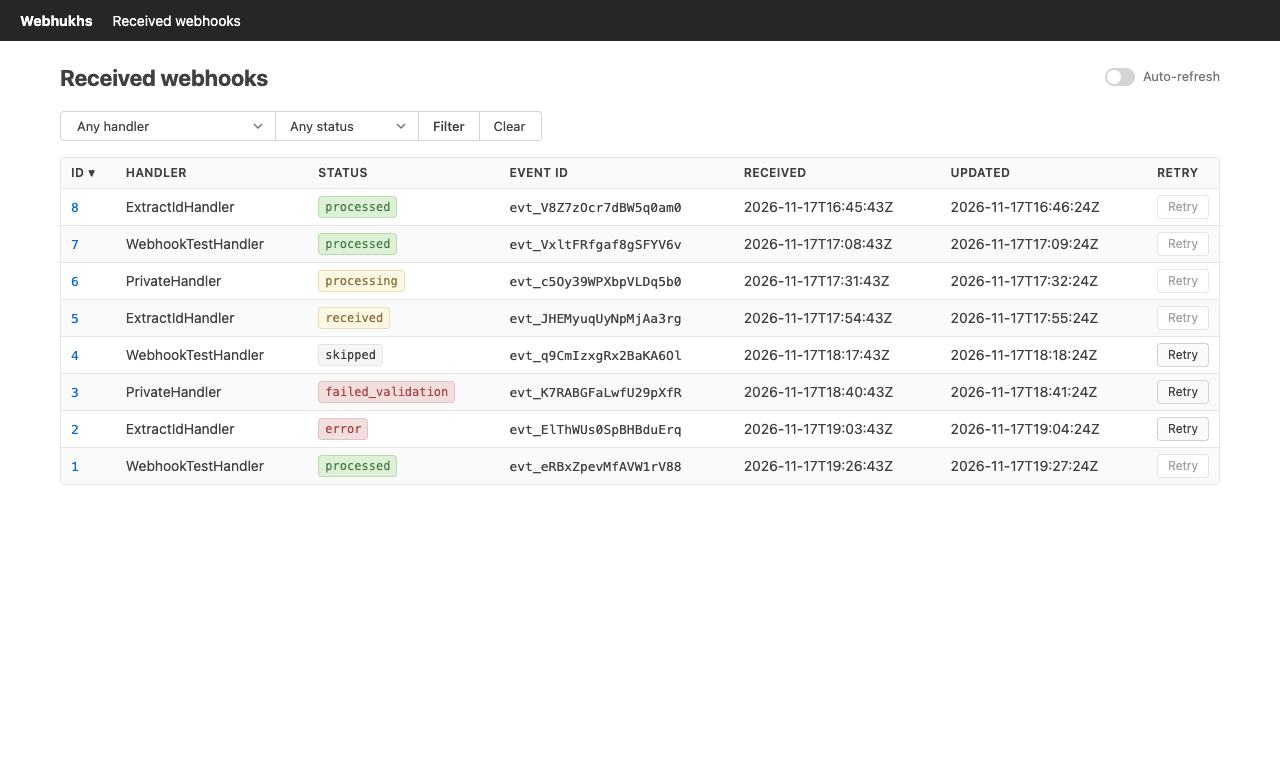
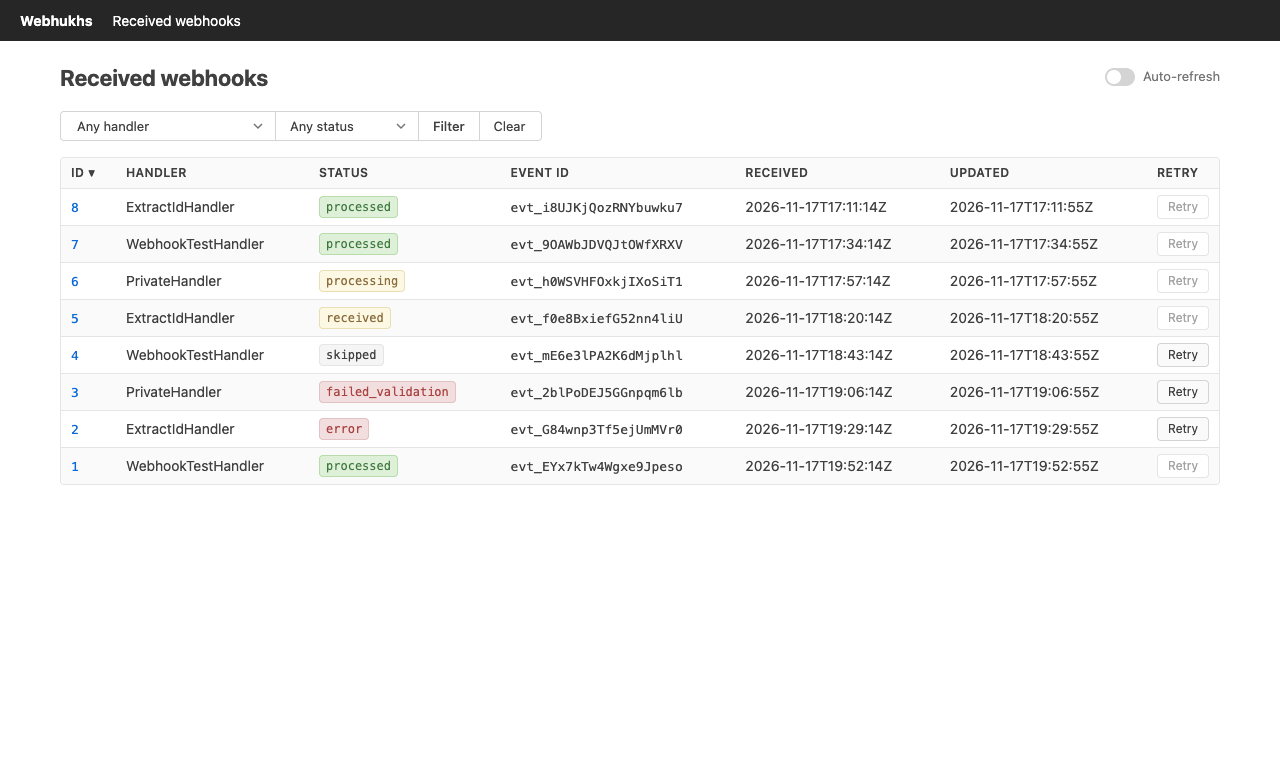
Replace the row in place when retrying from the listing

diff --git a/lib/webhukhs/admin/assets/admin.js b/lib/webhukhs/admin/assets/admin.js
@@ -33,7 +33,53 @@ document.addEventListener("click", (event) => {
   if (copyPanel) {
     const panel = copyPanel.closest(".tabs").querySelector("[role=tabpanel]:not([hidden])");
     navigator.clipboard.writeText(panel.querySelector("code").textContent).then(() => flash(copyPanel));
+    return;
   }
+
+  // A click anywhere on a listing row opens the webhook - except on something that is clickable in
+  // its own right, which is the id link and the retry button. The row used to be covered by the id
+  // link's ::after instead, which meant the button underneath it could not be pressed at all.
+  const row = event.target.closest("tr[data-href]");
+  if (row && !event.target.closest("a, button, input, label, select")) {
+    if (event.metaKey || event.ctrlKey) {
+      window.open(row.dataset.href, "_blank", "noopener");
+    } else {
+      location.assign(row.dataset.href);
+    }
+  }
+});
+
+// Retrying from the listing answers with the row alone, which goes in place of the one that was
+// there - the status and the button come back changed, and the page stays where it is. Without
+// JavaScript the same form submits normally and lands on the webhook, see the controller.
+document.addEventListener("submit", async (event) => {
+  const form = event.target.closest("tr[data-href] form.button_to");
+  if (!form) return;
+
+  event.preventDefault();
+  const row = form.closest("tr");
+  const button = form.querySelector("button");
+  button.disabled = true;
+
+  try {
+    const response = await fetch(form.action, {
+      method: "POST",
+      body: new FormData(form),
+      headers: {Accept: "text/html", "X-Webhukhs-Row": "1"}
+    });
+    // Parsed inside a tbody, not with DOMParser: parsing a bare <tr> as a document throws the row
+    // away, since it is not in a table there
+    const tbody = document.createElement("tbody");
+    tbody.innerHTML = await response.text();
+    const fresh = tbody.firstElementChild;
+    if (response.ok && fresh) {
+      row.replaceWith(fresh);
+      return;
+    }
+  } catch (error) {
+    // Left to the finally below - the button comes back and the row is as it was, so it can be pressed again
+  }
+  button.disabled = false;
 });
 
 // Arrow keys move between tabs, as the ARIA tabs pattern expects

diff --git a/lib/webhukhs/admin/assets/admin.css b/lib/webhukhs/admin/assets/admin.css
@@ -288,24 +288,19 @@ p.muted {
 .admin-table tbody tr:nth-child(even) {
   background: var(--color-bg-subtle);
 }
-/* Rows with a .row-link are clickable as a whole: the link's ::after covers the row */
-.admin-table tbody tr:has(> td > .row-link) {
-  position: relative;
+/* A row with a data-href is clickable as a whole - admin.js navigates, so nothing is laid over
+   the row and the buttons in it stay reachable */
+.admin-table tbody tr[data-href] {
   cursor: pointer;
 }
-.admin-table tbody tr:has(> td > .row-link):hover {
+.admin-table tbody tr[data-href]:hover {
   background: var(--color-bg-hover);
 }
-.admin-table tbody tr:has(> td > .row-link:focus-visible) {
+.admin-table tbody tr[data-href]:has(a:focus-visible) {
   outline: 2px solid var(--color-link);
   outline-offset: -2px;
 }
-.row-link::after {
-  content: "";
-  position: absolute;
-  inset: 0;
-}
-.row-link:focus-visible {
+.admin-table tbody tr[data-href] a:focus-visible {
   outline: none;
 }
 
@@ -461,11 +456,7 @@ h1 .badge {
 .detail-heading {
   margin-bottom: 16px;
 }
-/* The row link covers the whole row with its ::after, so the cell holding a button has to come
-   out above it - without this the row swallows the click and opens the webhook instead */
 .admin-table td:has(> form.button_to) {
-  position: relative;
-  z-index: 1;
   width: 1%;
 }
 

diff --git a/test/admin_test.rb b/test/admin_test.rb
@@ -31,8 +31,9 @@ class AdminTest < ActionDispatch::IntegrationTest
 
     assert_response :ok
     assert_equal ["last", "first"], listed_event_ids
-    # The whole row is the link, so it has to be there in the first cell
-    assert_select "tbody tr td:first-child a.row-link[href^='/admin/']", count: 2
+    # The id cell is a link of its own; the rest of the row follows data-href, see admin.js
+    assert_select "tbody tr td:first-child a[href^='/admin/']", count: 2
+    assert_select "tbody tr[data-href^='/admin/']", count: 2
     assert_select "th a.sort-link[href=?]", "/admin/?direction=asc", text: "Id ▼"
     assert_select "th a", count: 1
     assert_select "th a.sort-link span.sort-arrow", text: "▼", count: 1
@@ -88,7 +89,8 @@ class AdminTest < ActionDispatch::IntegrationTest
 
     get "/admin"
 
-    assert_select "a.row-link[href=?][title=?][aria-label=?]", "/admin/#{webhook.id}", webhook.id.to_s, webhook.id.to_s do
+    assert_select "tr#webhook-#{webhook.id}[data-href=?]", "/admin/#{webhook.id}"
+    assert_select "a[href=?][title=?][aria-label=?]", "/admin/#{webhook.id}", webhook.id.to_s, webhook.id.to_s do
       assert_select "code.cell-id", text: webhook.id.to_s
       assert_select "abbr", count: 0
     end
@@ -421,6 +423,38 @@ class AdminTest < ActionDispatch::IntegrationTest
     assert_select "p.flash.notice", text: "Webhook queued for processing again."
     assert_select "span.badge.status-waiting", text: "received"
     assert_select "tr th:contains('Event id') + td code", text: webhook.handler_event_id
+  end
+
+  # What admin.js asks for when the button was pressed in the listing: the row, to put in place of
+  # the one that is there, rather than somewhere to go
+  test "answers a retry from the listing with the webhook's row alone" do
+    webhook = create_webhook(status: "error")
+
+    post "/admin/#{webhook.id}/retry", headers: {Webhukhs::Admin::ReceivedWebhooksController::ROW_REQUEST_HEADER => "1"}
+
+    assert_response :ok
+    assert_predicate webhook.reload, :received?
+    assert_select "tr#webhook-#{webhook.id}[data-href=?]", "/admin/#{webhook.id}" do
+      assert_select "span.badge.status-waiting", text: "received"
+      # Nothing left to retry now that it is on its way
+      assert_select "button.btn-retry[disabled]", text: "Retry"
+    end
+    refute_includes response.body, "<html", "The row goes back on its own, without a page around it"
+  end
+
+  test "answers with the row even when the webhook turned out not to be retryable" do
+    webhook = create_webhook(status: "processed")
+
+    post "/admin/#{webhook.id}/retry", headers: {Webhukhs::Admin::ReceivedWebhooksController::ROW_REQUEST_HEADER => "1"}
+
+    assert_response :ok
+    assert_predicate webhook.reload, :processed?
+    assert_empty enqueued_jobs
+    # The row says what the status actually is, which is the answer to a page that went stale
+    assert_select "tr#webhook-#{webhook.id}" do
+      assert_select "span.badge.status-ok", text: "processed"
+      assert_select "button.btn-retry[disabled]", text: "Retry"
+    end
   end
 
   # The button is disabled for these, so this is someone whose page went stale - or a POST by hand

diff --git a/lib/webhukhs/admin/view_helper.rb b/lib/webhukhs/admin/view_helper.rb
@@ -18,22 +18,50 @@ module Webhukhs
         content_tag(:abbr, shortened, title: uuid_str)
       end
 
+      # One table row, each cell wrapped in a `td`.
+      #
+      # Separate from #admin_table, which takes rows rather than building them, so that a row can
+      # also be rendered on its own - the retry of a webhook answers with its row alone, for the
+      # listing to put in place of the one that was there.
+      #
+      # @param cells [Array] cell contents
+      # @return [ActiveSupport::SafeBuffer]
+      def admin_row(cells)
+        tag.tr { safe_join(cells.map { |cell| tag.td(cell) }) }
+      end
+
       # Renders a table inside a scroll container. Cells are `white-space: nowrap`, so one long
       # column would otherwise take the whole page sideways with it.
       #
       # @param columns [Array<String>] header cell contents
-      # @param records [Array] rows to render
-      # @yieldparam record [Object] one of the records
-      # @yieldreturn [Array] cell contents for that record
+      # @param rows [Array<ActiveSupport::SafeBuffer>] rows, as built by #admin_row
       # @return [ActiveSupport::SafeBuffer]
-      def admin_table(columns, records)
-        rows = records.map do |record|
-          tag.tr { safe_join(yield(record).map { |cell| tag.td(cell) }) }
-        end
+      def admin_table(columns, rows)
         rows = [tag.tr(tag.td("No records.", colspan: columns.length, class: "empty"))] if rows.empty?
 
         thead = tag.thead(tag.tr(safe_join(columns.map { |column| tag.th(column) })))
         tag.div(tag.table(safe_join([thead, tag.tbody(safe_join(rows))]), class: "admin-table"), class: "table-scroll")
+      end
+
+      # The id of the row a webhook is listed in, so that the listing can find it again when the
+      # webhook is retried and its row comes back changed.
+      #
+      # @param webhook [Webhukhs::Admin::ReceivedWebhookPresenter]
+      # @return [String]
+      def received_webhook_row_id(webhook)
+        "webhook-#{webhook.id}"
+      end
+
+      # The retry button, as a form of its own - disabled rather than hidden for a webhook that
+      # cannot be retried, so that it does not move about between statuses.
+      #
+      # The block form of `button_to`, so that this is a `button` whatever the host application has
+      # `button_to_generates_button_tag` set to.
+      #
+      # @param webhook [Webhukhs::Admin::ReceivedWebhookPresenter]
+      # @return [ActiveSupport::SafeBuffer]
+      def retry_button(webhook)
+        button_to(retry_received_webhook_path(webhook), class: "btn-retry", disabled: !webhook.retryable?, title: webhook.retry_title) { "Retry" }
       end
 
       # ID column header linking to the index with the sort direction reversed.

diff --git a/lib/webhukhs/admin/received_webhooks_controller.rb b/lib/webhukhs/admin/received_webhooks_controller.rb
@@ -37,20 +37,46 @@ module Webhukhs
         @webhook = ReceivedWebhookPresenter.new(ReceivedWebhook.find(params.fetch(:id)))
       end
 
-      # Puts one webhook back in line for processing and returns to its page.
+      # Set by admin.js on the retry it sends from the listing, where the answer wanted is the row
+      # rather than a page to go to
+      ROW_REQUEST_HEADER = "X-Webhukhs-Row"
+
+      # Puts one webhook back in line for processing.
+      #
+      # Answers with the webhook's row for a retry pressed in the listing, so the listing can put it
+      # in place of the one that was there - and with a redirect to the webhook otherwise, which is
+      # what a plain form submit (no JavaScript, or the button on the webhook's own page) wants.
       #
       # @return [void]
       def retry
         webhook = ReceivedWebhook.find(params.fetch(:id))
         webhook.retry!
+        return render_row(webhook) if row_requested?
+
         redirect_to webhook, notice: "Webhook queued for processing again."
       rescue StateMachineEnum::InvalidTransition
         # The button is disabled for a webhook that cannot be retried, so getting here means the
-        # status changed under whoever pressed it - or that the request did not come from the page
+        # status changed under whoever pressed it - or that the request did not come from the page.
+        # The row that goes back says what the status actually is, which is the answer either way.
+        return render_row(webhook) if row_requested?
+
         redirect_to webhook, alert: "This webhook is #{webhook.status} and cannot be retried."
       end
 
       private
+
+      # @return [Boolean]
+      def row_requested?
+        request.headers.key?(ROW_REQUEST_HEADER)
+      end
+
+      # The webhook as one row of the listing, and nothing else - no layout, no page around it.
+      #
+      # @param webhook [Webhukhs::ReceivedWebhook]
+      # @return [void]
+      def render_row(webhook)
+        render partial: "received_webhook", locals: {webhook: ReceivedWebhookPresenter.new(webhook)}
+      end
 
       # The configured handlers rather than a DISTINCT over the table, so that a handler which has
       # not received anything yet can still be picked - "nothing arrived" is an answer too.

diff --git a/test/browser/admin_click_through.rb b/test/browser/admin_click_through.rb
@@ -219,16 +219,36 @@ class AdminClickThrough < ActiveSupport::TestCase
     assert @browser.at_css("button.btn-retry").attribute("disabled")
   end
 
-  # The row link covers the whole row, so without the stacking the click would open the webhook
-  test "retries a webhook from the listing without opening it" do
+  # The row is replaced where it stands, rather than the listing being left for the webhook's page
+  test "retries a webhook from the listing, replacing its row" do
     webhook = create_webhook(handler_event_id: "evt-to-retry", status: "failed_validation")
+    other = create_webhook(handler_event_id: "evt-untouched", status: "error")
 
     visit ""
-    click_and_wait_for_page(@browser.at_css("tbody tr button.btn-retry"))
+    listing_url = @browser.current_url
+    row = "tr#webhook-#{webhook.id}"
+    assert_equal "failed_validation", @browser.at_css("#{row} .badge").text
 
-    assert_equal "#{@base_url}/#{webhook.id}", @browser.current_url
-    assert_equal "Webhook queued for processing again.", @browser.at_css("p.flash.notice").text
+    @browser.at_css("#{row} button.btn-retry").click
+    wait_for("the row to come back as received") { @browser.evaluate("document.querySelector(#{"#{row} .badge".to_json}).textContent") == "received" }
+
+    assert_equal listing_url, @browser.current_url, "The listing should have stayed where it was"
     assert_equal "received", webhook.reload.status
+    assert @browser.at_css("#{row} button.btn-retry").attribute("disabled")
+
+    # And only that row changed
+    assert_equal "error", @browser.at_css("tr#webhook-#{other.id} .badge").text
+    assert_equal "error", other.reload.status
+  end
+
+  # The retry button sits in the row, which is clickable as a whole - pressing the button must not
+  # also open the webhook
+  test "opens the webhook from a click anywhere else in the row, but not from the retry button" do
+    webhook = create_webhook(handler_event_id: "evt-row-click", status: "error")
+
+    visit ""
+    click_and_wait_for_page(@browser.at_css("tbody tr td:nth-child(2)"))
+    assert_equal "#{@base_url}/#{webhook.id}", @browser.current_url
   end
 
   test "picks up new webhooks while auto-refresh is on, and remembers the switch" do

diff --git a/lib/webhukhs/models/received_webhook.rb b/lib/webhukhs/models/received_webhook.rb
@@ -121,8 +121,8 @@ module Webhukhs
     # job, the same way it does for a webhook that just came in off the wire, so a retry goes
     # through the same validation and processing as the first attempt did.
     #
-    # @raise [StateMachineEnum::InvalidTransition] if the webhook is not #retryable?
     # @return [void]
+    # @raise [StateMachineEnum::InvalidTransition] if the webhook is not #retryable?
     def retry!
       ensure_status_may_transition_to!(:received)
       received!

diff --git a/CHANGELOG.md b/CHANGELOG.md
@@ -5,10 +5,16 @@ This format is based on [Keep a Changelog](https://keepachangelog.com/en/1.1.0/)
 
 ## Unreleased
 
+### Changed
+- Listing rows are no longer covered by a stretched link. The row carries its `data-href` and
+  admin.js navigates on a click that did not land on something clickable of its own, so buttons in
+  a row can actually be pressed.
+
 ### Added
 - A **Retry** button in the admin, on the listing and on the webhook page, for webhooks that did not
   get processed - and `Webhukhs::ReceivedWebhook#retry!` / `#retryable?` behind it. The button is
-  disabled for a webhook that has been processed, or that is on its way already.
+  disabled for a webhook that has been processed, or that is on its way already. In the listing it
+  replaces the row it was pressed in, leaving the page where it is.
 - `failed_validation` and `skipped` may now transition back to `received`, the way `error` already
   could, so that a webhook refused by a handler that was misconfigured at the time can be put back
   in line once the configuration is right.

diff --git a/README.md b/README.md
@@ -132,6 +132,11 @@ A webhook that did not get processed can be put back in line, from its own page 
 
 ![The admin listing with a Retry button in every row, disabled for the webhooks that have been processed](.github/screenshots/admin-retry-listing.png)
 
+Pressed in the listing, the button replaces that one row with what it became - the status, the
+timestamp and the button itself come back changed and the page stays where it is. On the webhook's
+own page it reloads the page. Without JavaScript the same form submits normally and lands on the
+webhook, so nothing here depends on the browser being able to run anything.
+
 Retrying takes the webhook back to `received` and enqueues it exactly as a fresh delivery would be,
 so it goes through the same handler validation and processing as the first attempt. That makes the
 button worth having mostly for the delivery your side refused: a signature secret that had not been
